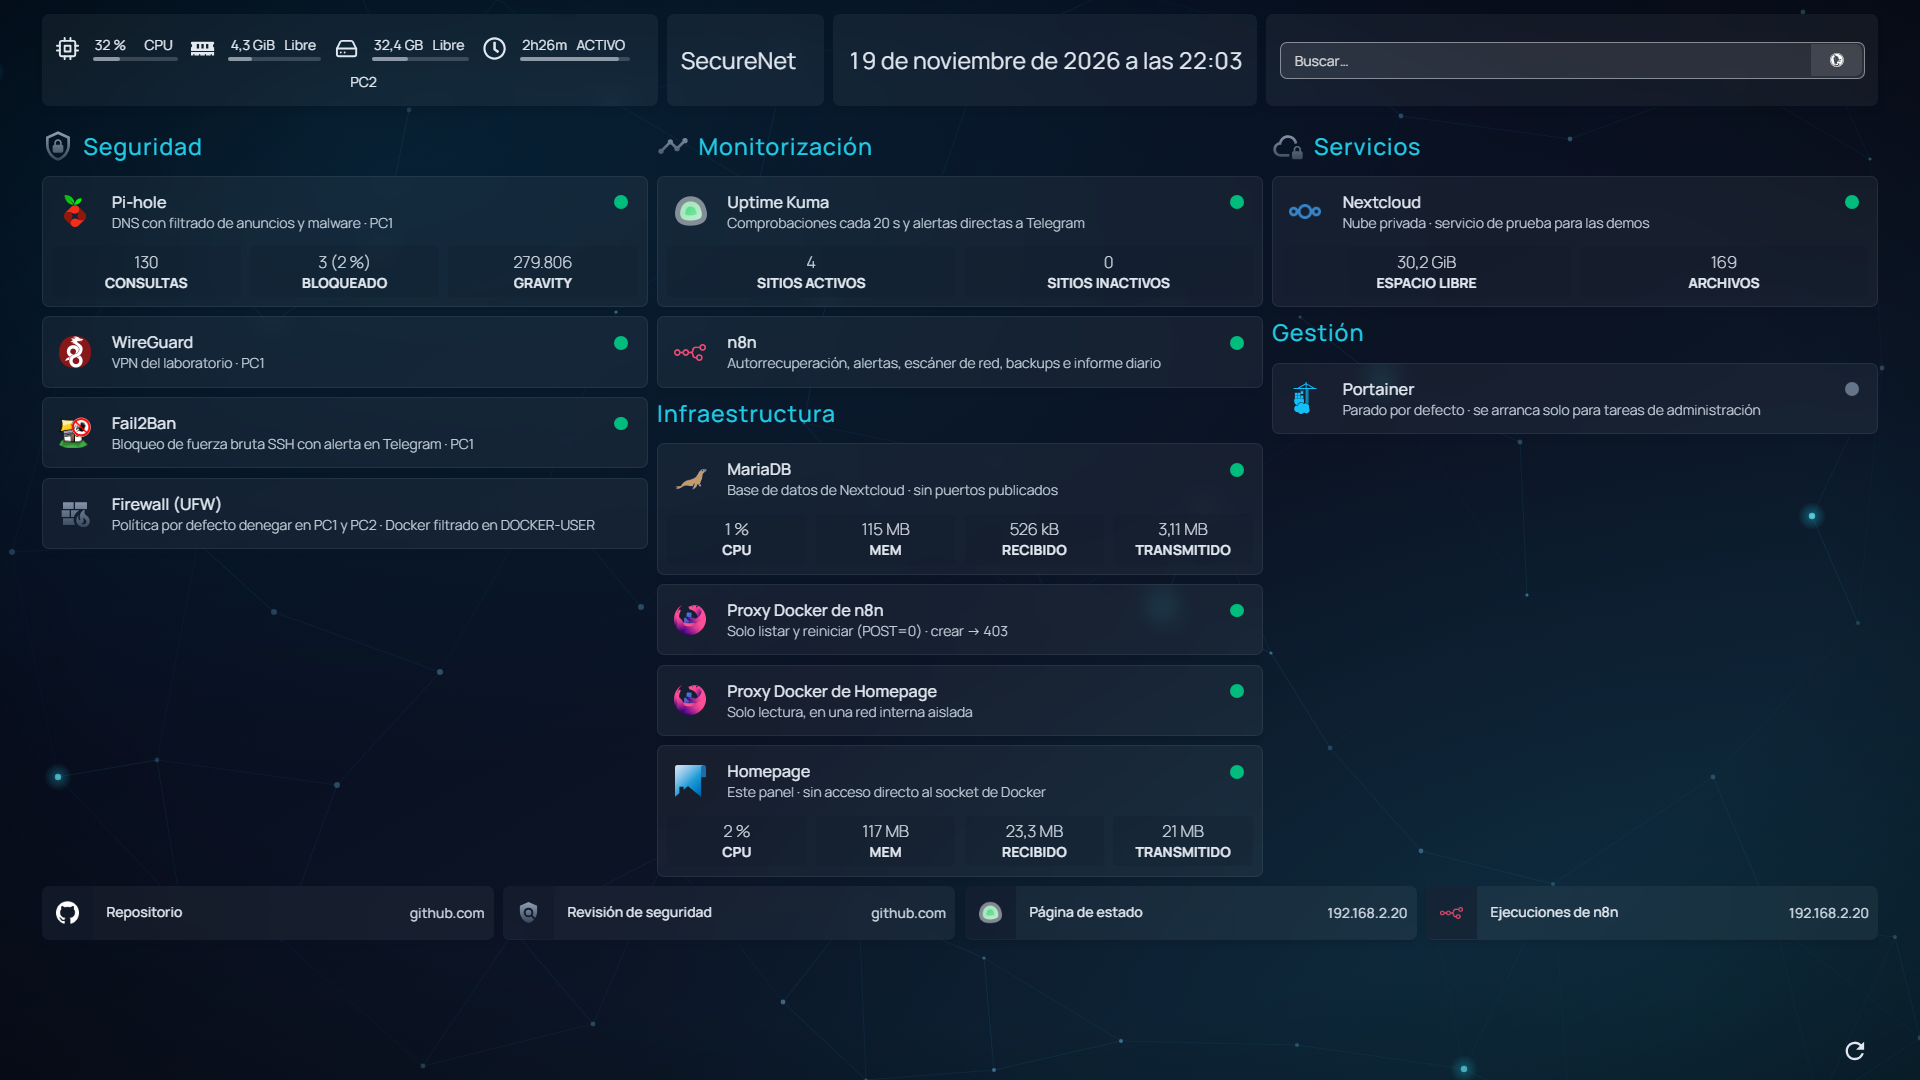
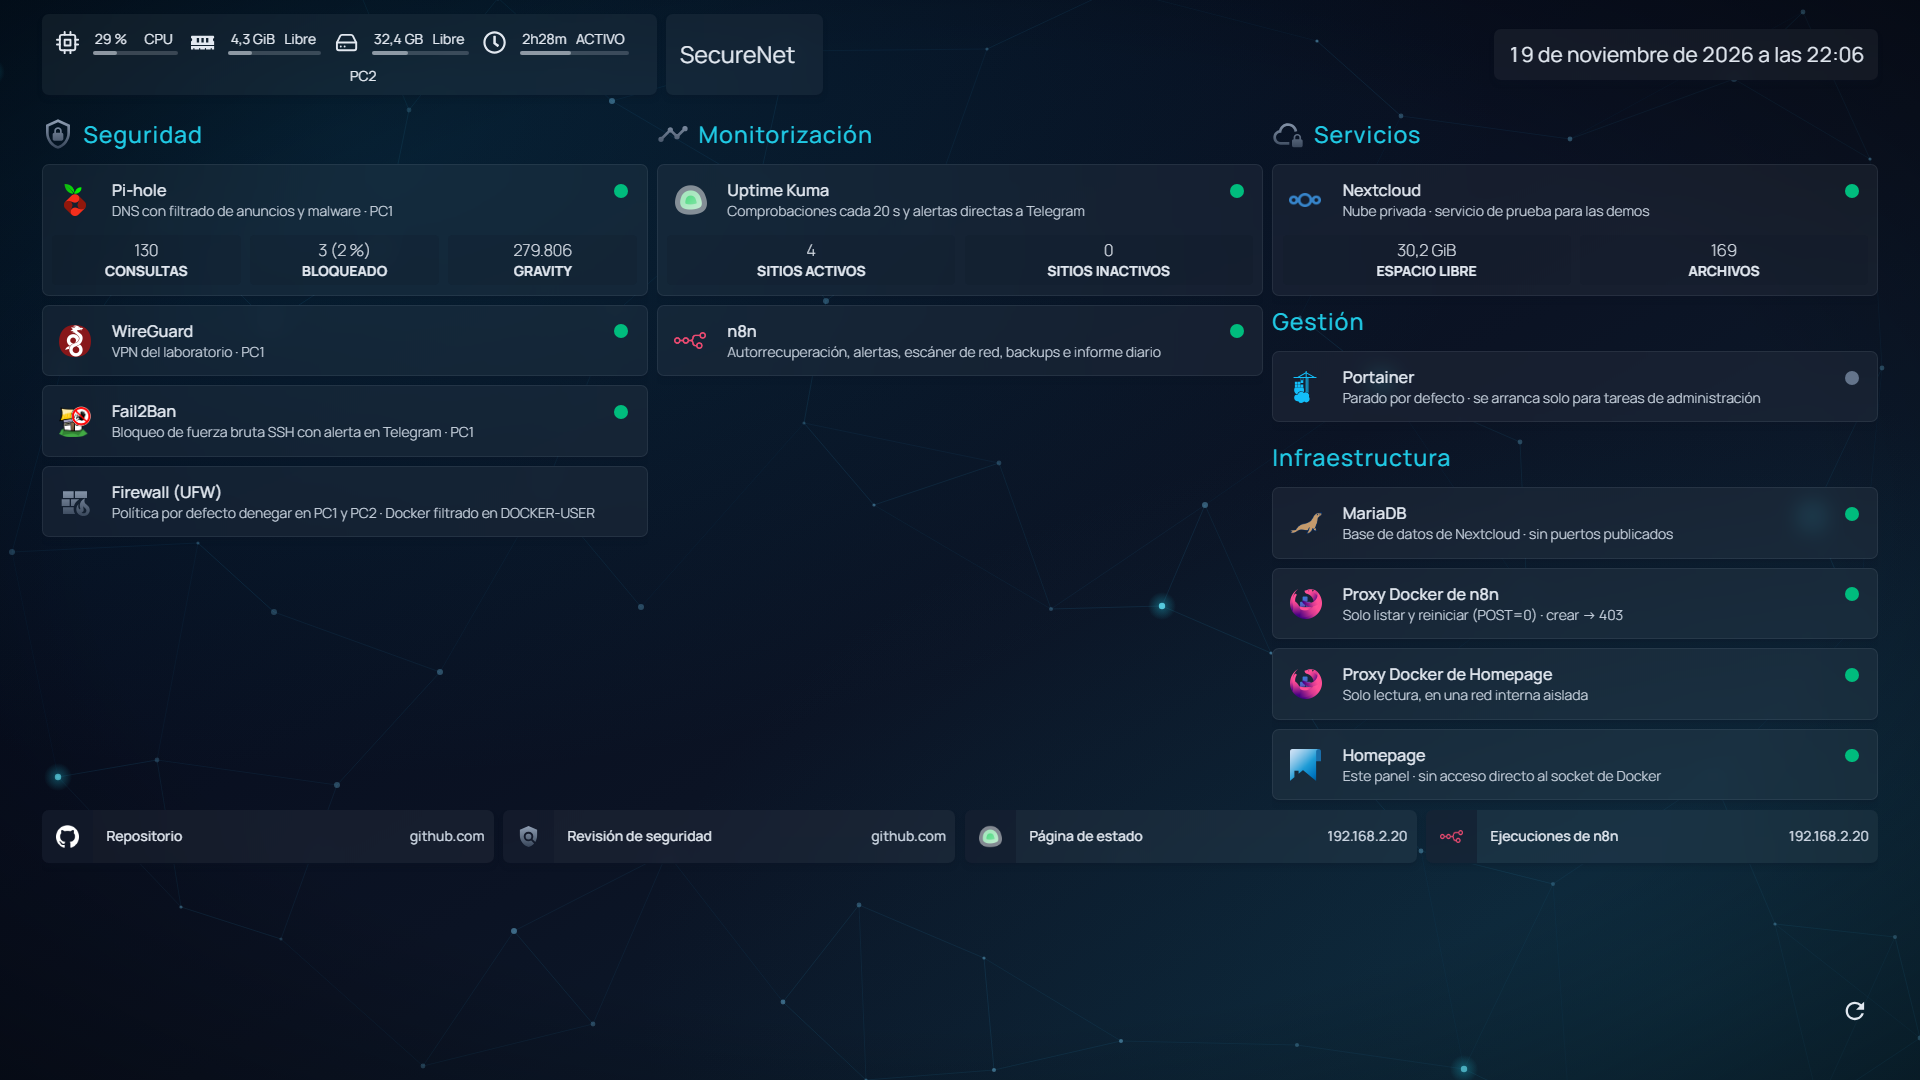
Fit Homepage in 1920x1080 and retake the screenshot
- Header: search widget removed; date and time in normal size on the same
  row as the resources widget.
- Infrastructure cards show only their status dot (no CPU/MEM/RX/TX).
- "Infraestructura" moved to the right column, below "Gestión".
- New 1920x1080 screenshot, checked that no card is cut off.

diff --git a/CHANGELOG.md b/CHANGELOG.md
@@ -47,9 +47,9 @@ Closes the rest of the [post-delivery review](docs/08-security-review.md) that c
   - status dots for the PC1 services (ping to the gateway);
   - Portainer shows a grey "stopped" dot;
   - *Gestión* sits under *Servicios*.
-  - New *Infraestructura* group under n8n in the centre column: MariaDB, both Docker socket proxies and Homepage itself; MariaDB and Homepage show live CPU/RAM/network read through the read-only proxy. Kuma, n8n and Nextcloud show only their own data; the Kuma widget shows sites up/down only, because its uptime % counts the time the VMs were powered off as downtime.
+  - New *Infraestructura* group under *Gestión* in the right column: MariaDB, both Docker socket proxies and Homepage itself, each with its status dot. Cards show only their own data (no container CPU/RAM/network); the Kuma widget shows sites up/down only, because its uptime % counts the time the VMs were powered off as downtime.
   - The UFW firewall gets its own card.
-  - One row of links (repository, security review, status page, n8n executions); short group titles, no collapse chevrons, Portainer as a plain glyph, everything fits in 1920x1080 in three columns.
+  - One row of links (repository, security review, status page, n8n executions); short group titles, no collapse chevrons, Portainer as a plain glyph, no search box; everything fits in 1920x1080 in three columns.
 
 ### Still open
 
